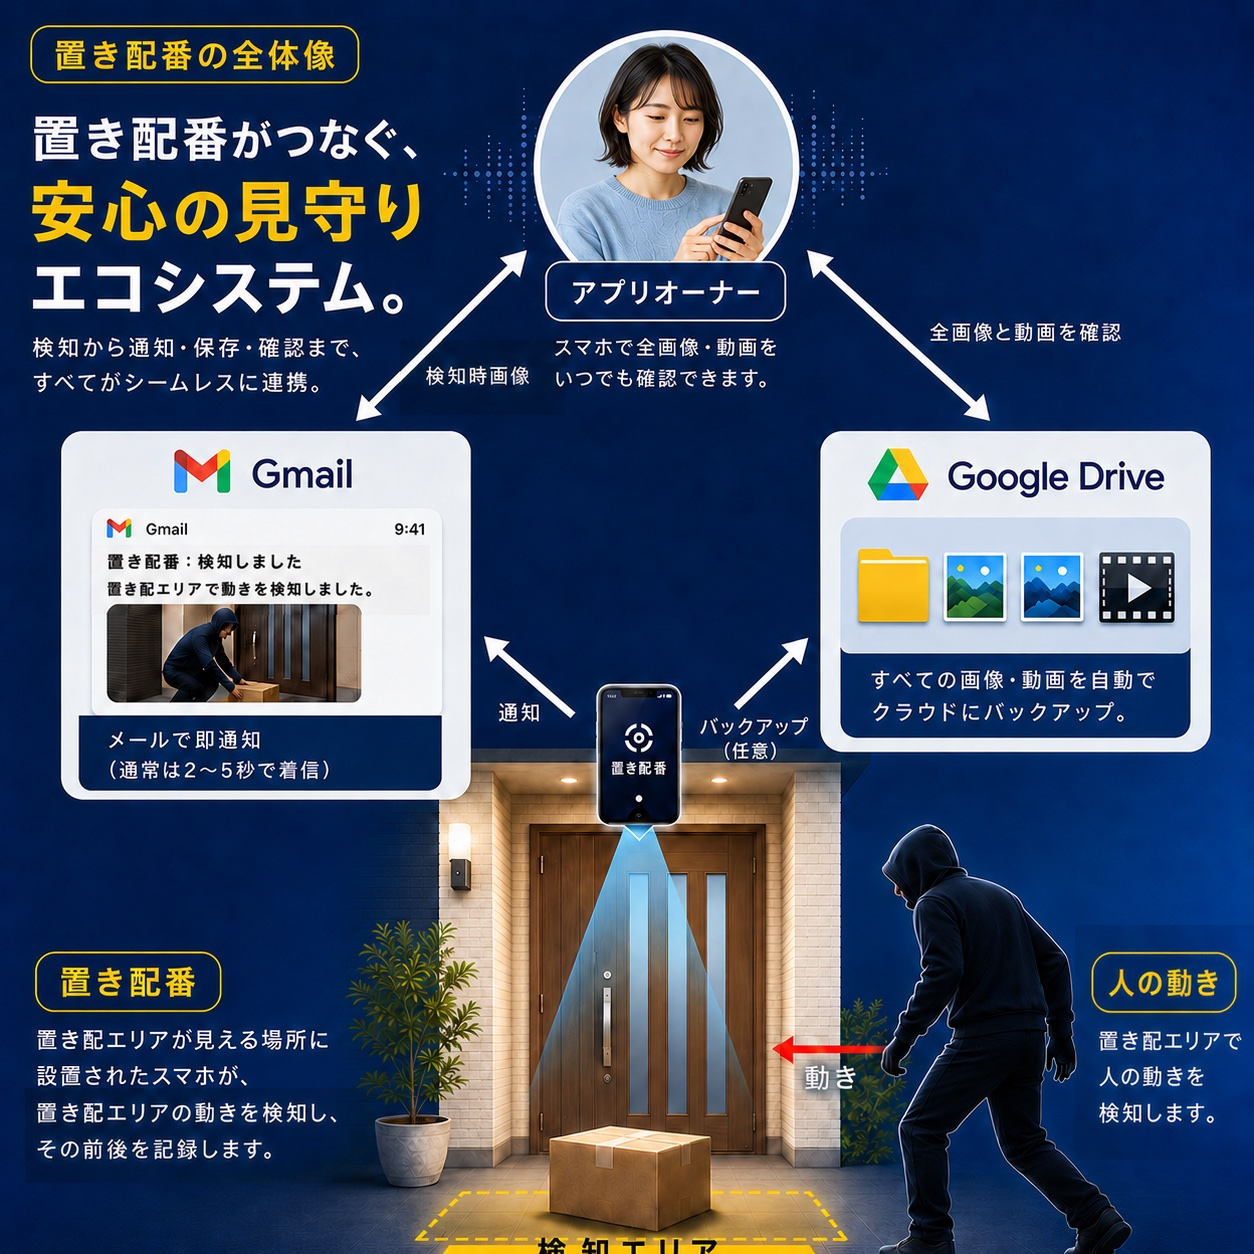
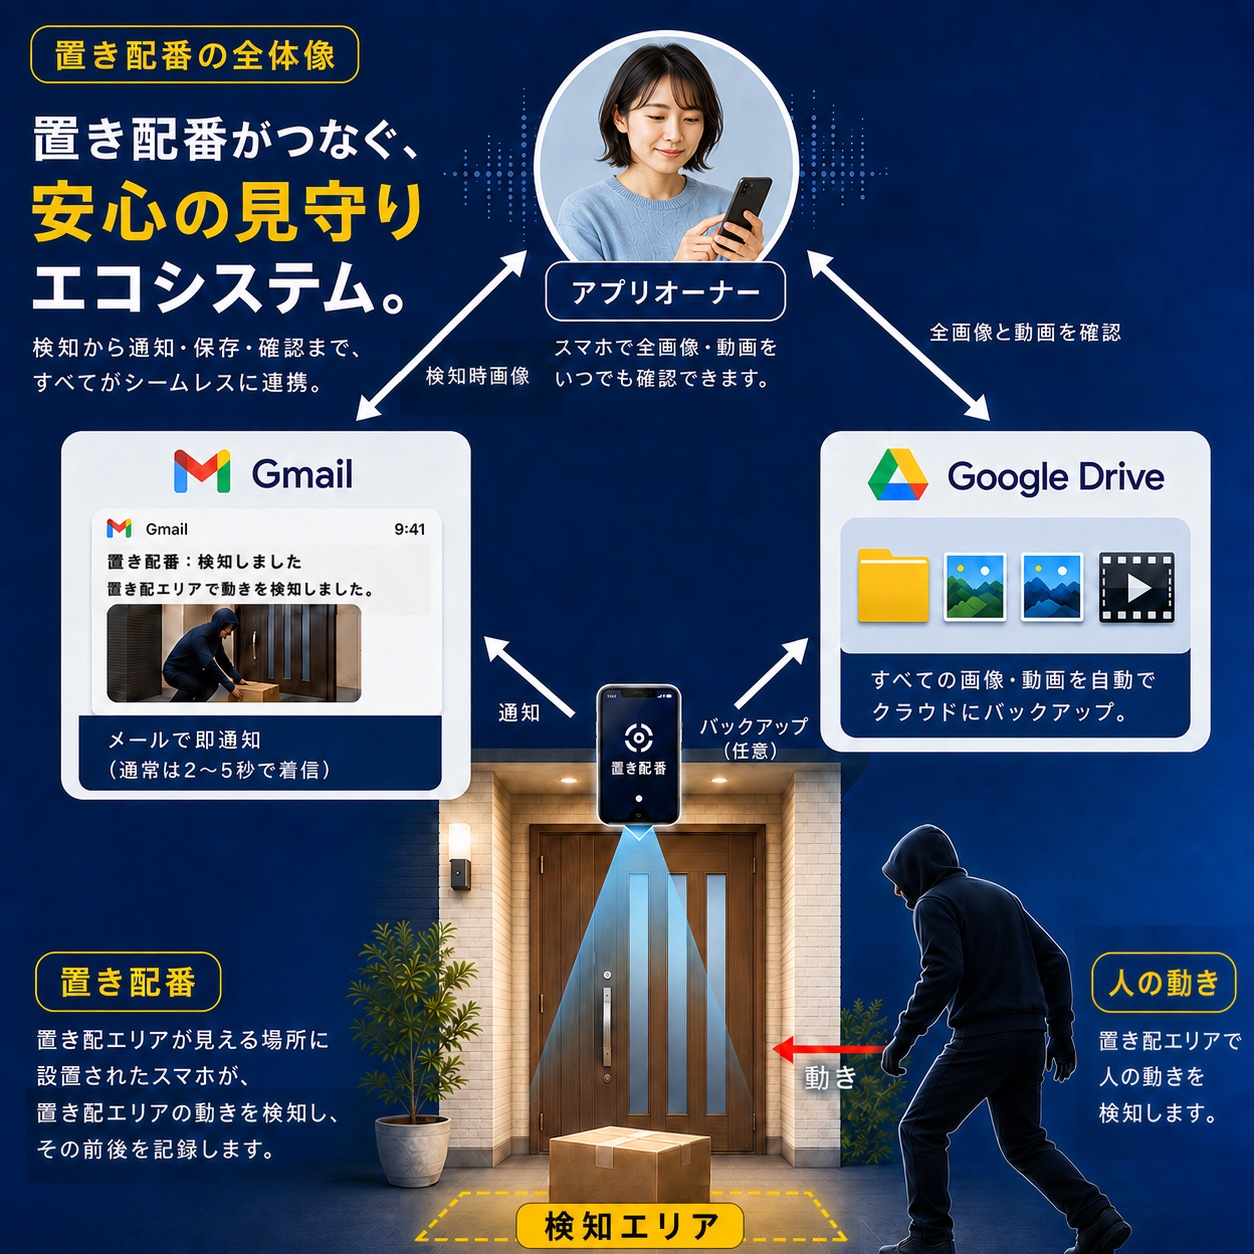
Restore overview detection area label

Changed region(s): [[0.3421, 0.933, 0.6531, 1.0]]

diff --git a/public/bannosuke.html b/public/bannosuke.html
@@ -215,7 +215,7 @@
           </div>
           <figure class="camera-overview">
             <img
-              src="/assets/overview.jpg"
+              src="/assets/overview.jpg?v=20260721-2"
               alt="置き配番の全体像。スマートフォンが置き配エリアの動きを検知し、Gmail通知とGoogle Driveへの保存につなぐ流れ"
             />
           </figure>

diff --git a/public/index.html b/public/index.html
@@ -215,7 +215,7 @@
           </div>
           <figure class="camera-overview">
             <img
-              src="/assets/overview.jpg"
+              src="/assets/overview.jpg?v=20260721-2"
               alt="置き配番の全体像。スマートフォンが置き配エリアの動きを検知し、Gmail通知とGoogle Driveへの保存につなぐ流れ"
             />
           </figure>